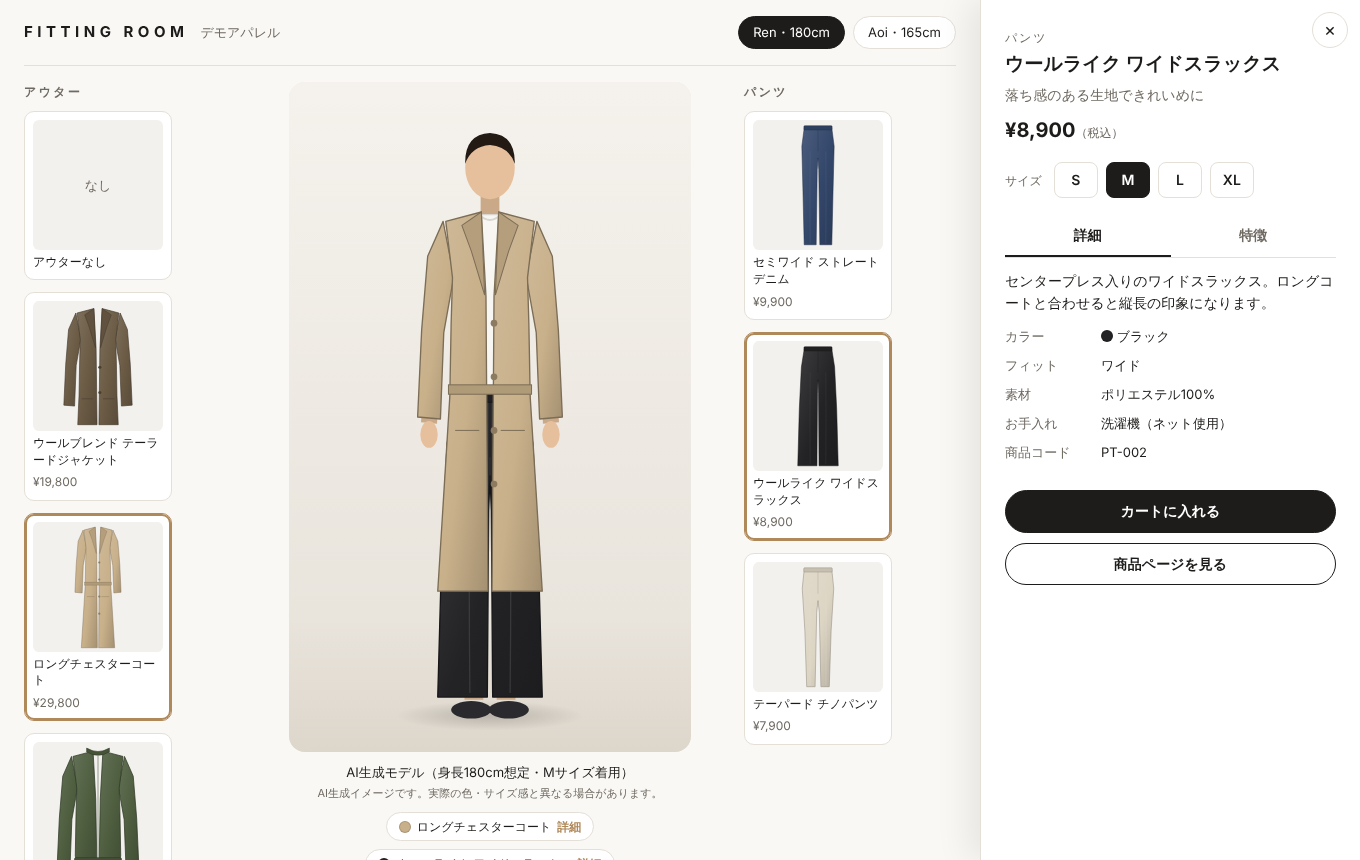
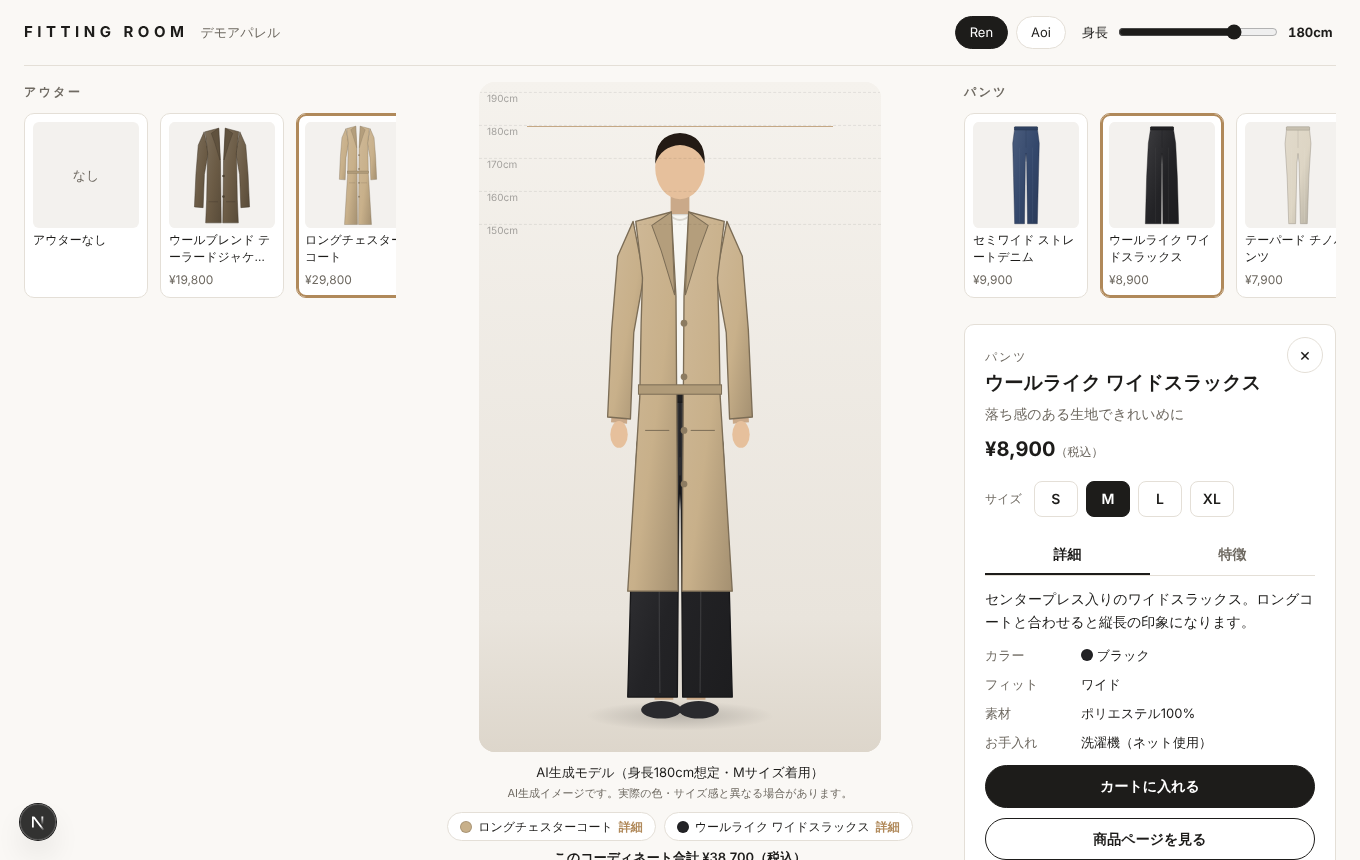
試着室: 商品を横スクロールに、身長をスライダーで調整可能に
- アウター・パンツを横一列の横スクロールに変更
- 詳細パネルを商品一覧の下に表示し、中央の着用画像を隠さない
- 身長スライダー（150〜190cm）と目盛りを追加。着用画像の縮尺を足元基準で変える

Claude-Session: https://claude.ai/code/session_012KCw46FKtnUSpWef3yNaCA

diff --git a/src/components/FittingRoom.tsx b/src/components/FittingRoom.tsx
@@ -6,7 +6,17 @@
 import { useCallback, useEffect, useMemo, useRef, useState } from "react";
 import type { Catalog, PublicLook, PublicProduct } from "@/lib/public-api";
 
-const NO_OUTER = "__none__";
+// 身長の調整範囲（cm）
+export const HEIGHT_MIN = 150;
+export const HEIGHT_MAX = 190;
+// 着用画像の縮尺: 画像の下から5%が足元、身長1cmあたり画像の高さの0.4911%（仮エンジンの描画と一致）
+const FEET_FROM_TOP = 0.95;
+const PER_CM = 0.004911;
+
+/** 身長に合わせて着用画像を何倍に表示するか（足元を基準に拡大・縮小） */
+export function heightScale(targetCm: number, modelCm: number): number {
+  return targetCm / modelCm;
+}
 
 function comboKey(modelId: string, outerId: string | null, bottomId: string | null) {
   return `${modelId}|${outerId ?? "-"}|${bottomId ?? "-"}`;
@@ -43,6 +53,9 @@ export default function FittingRoom({ catalog, initial }: Props) {
   );
   const [bottomId, setBottomId] = useState<string | null>(
     bottoms.find((p) => p.external_code === initial.bottomsCode)?.id ?? bottoms[0]?.id ?? null,
+  );
+  const [heightCm, setHeightCm] = useState(
+    () => models.find((m) => m.id === initial.modelId)?.height_cm ?? models[0]?.height_cm ?? 170,
   );
   const [detail, setDetail] = useState<PublicProduct | null>(null);
   const [pending, setPending] = useState<string | null>(null); // 生成待ちの combo_key
@@ -178,32 +191,64 @@ export default function FittingRoom({ catalog, initial }: Props) {
   }
 
   const busy = pending === key && !look;
+  const scale = heightScale(heightCm, model.height_cm);
+  // 選んだ身長の頭の高さ（ステージ上端からの割合）。目盛り線に使う
+  const headTop = FEET_FROM_TOP - heightCm * PER_CM;
+  const detailPanel = detail && (
+    <DetailPanel
+      key={detail.id}
+      p={detail}
+      defaultSize={model.size_worn}
+      onClose={() => setDetail(null)}
+      onCart={addToCart}
+      onLink={() => track("product_link", { product_id: detail.id })}
+    />
+  );
 
   return (
-    <div className={`room ${detail ? "with-detail" : ""}`}>
+    <div className="room">
       <header className="room-header">
         <div className="room-brand">
           <span className="room-title">FITTING ROOM</span>
           <span className="room-tenant">{tenant.name}</span>
         </div>
-        {models.length > 1 && (
-          <div className="model-switch" role="radiogroup" aria-label="モデルを選ぶ">
-            {models.map((m) => (
-              <button
-                key={m.id}
-                role="radio"
-                aria-checked={m.id === modelId}
-                className={`chip ${m.id === modelId ? "on" : ""}`}
-                onClick={() => setModelId(m.id)}
-              >
-                {m.name}・{m.height_cm}cm
-              </button>
-            ))}
-          </div>
-        )}
+        <div className="room-controls">
+          {models.length > 1 && (
+            <div className="model-switch" role="radiogroup" aria-label="モデルを選ぶ">
+              {models.map((m) => (
+                <button
+                  key={m.id}
+                  role="radio"
+                  aria-checked={m.id === modelId}
+                  className={`chip ${m.id === modelId ? "on" : ""}`}
+                  onClick={() => {
+                    setModelId(m.id);
+                    setHeightCm(Math.min(HEIGHT_MAX, Math.max(HEIGHT_MIN, m.height_cm)));
+                  }}
+                >
+                  {m.name}
+                </button>
+              ))}
+            </div>
+          )}
+          <label className="height-control">
+            <span>身長</span>
+            <input
+              type="range"
+              min={HEIGHT_MIN}
+              max={HEIGHT_MAX}
+              step={1}
+              value={heightCm}
+              onChange={(e) => setHeightCm(Number(e.target.value))}
+              aria-valuetext={`${heightCm}cm`}
+            />
+            <output>{heightCm}cm</output>
+          </label>
+        </div>
       </header>
 
-      <section className="rail rail-outer" aria-label="アウター">
+      <div className="side side-outer">
+      <section className="rail" aria-label="アウター">
         <h2 className="rail-title">アウター</h2>
         <div className="rail-items">
           <button className={`item none ${outerId === null ? "on" : ""}`} onClick={() => selectOuter(null)} aria-pressed={outerId === null}>
@@ -215,6 +260,8 @@ export default function FittingRoom({ catalog, initial }: Props) {
           ))}
         </div>
       </section>
+      {detail?.category === "outer" && detailPanel}
+      </div>
 
       <section className="stage" aria-live="polite">
         <div className="stage-frame">
@@ -224,12 +271,23 @@ export default function FittingRoom({ catalog, initial }: Props) {
               src={shownUrl}
               alt={`${model.name}の着用イメージ`}
               className={`stage-img ${busy ? "dim" : ""}`}
+              style={{ transform: `scale(${scale})` }}
               key={shownUrl}
             />
           ) : (
             // eslint-disable-next-line @next/next/no-img-element
-            model.image_url && <img src={model.image_url} alt={model.name} className="stage-img dim" />
+            model.image_url && (
+              <img src={model.image_url} alt={model.name} className="stage-img dim" style={{ transform: `scale(${scale})` }} />
+            )
           )}
+          <div className="ruler" aria-hidden>
+            {[150, 160, 170, 180, 190].map((cm) => (
+              <span key={cm} className="ruler-tick" style={{ top: `${(FEET_FROM_TOP - cm * PER_CM) * 100}%` }}>
+                {cm}
+              </span>
+            ))}
+            <span className="ruler-head" style={{ top: `${headTop * 100}%` }} />
+          </div>
           {busy && (
             <div className="stage-overlay">
               <div className="spinner" aria-hidden />
@@ -243,7 +301,7 @@ export default function FittingRoom({ catalog, initial }: Props) {
           )}
         </div>
         <p className="model-note">
-          AI生成モデル（身長{model.height_cm}cm想定・{model.size_worn}サイズ着用）
+          AI生成モデル（身長{heightCm}cm想定・{model.size_worn}サイズ着用）
         </p>
         <p className="disclaimer">AI生成イメージです。実際の色・サイズ感と異なる場合があります。</p>
         <div className="wearing" aria-label="着用中の商品">
@@ -258,7 +316,8 @@ export default function FittingRoom({ catalog, initial }: Props) {
         {outfitTotal > 0 && <p className="outfit-total">このコーディネート合計 {yen(outfitTotal)}（税込）</p>}
       </section>
 
-      <section className="rail rail-bottoms" aria-label="パンツ">
+      <div className="side side-bottoms">
+      <section className="rail" aria-label="パンツ">
         <h2 className="rail-title">パンツ</h2>
         <div className="rail-items">
           {bottoms.map((p) => (
@@ -266,17 +325,8 @@ export default function FittingRoom({ catalog, initial }: Props) {
           ))}
         </div>
       </section>
-
-      {detail && (
-        <DetailPanel
-          key={detail.id}
-          p={detail}
-          defaultSize={model.size_worn}
-          onClose={() => setDetail(null)}
-          onCart={addToCart}
-          onLink={() => track("product_link", { product_id: detail.id })}
-        />
-      )}
+      {detail?.category === "bottoms" && detailPanel}
+      </div>
 
       {toast && (
         <div className="toast" role="status">

diff --git a/src/app/globals.css b/src/app/globals.css
@@ -40,9 +40,10 @@ button { font: inherit; color: inherit; cursor: pointer; }
 /* ---------- 試着室 ---------- */
 .room {
   display: grid;
-  grid-template-columns: minmax(200px, 1fr) minmax(320px, 520px) minmax(200px, 1fr);
+  grid-template-columns: minmax(0, 1fr) minmax(320px, 520px) minmax(0, 1fr);
   grid-template-rows: auto 1fr;
   grid-template-areas: "head head head" "outer stage bottoms";
+  align-items: start;
   min-height: 100vh; gap: 0 24px; padding: 0 24px 24px;
 }
 .room-header {
@@ -56,11 +57,18 @@ button { font: inherit; color: inherit; cursor: pointer; }
 .chip { border: 1px solid var(--line); background: var(--panel); border-radius: 999px; padding: 5px 14px; font-size: 13px; }
 .chip.on { border-color: var(--ink); background: var(--ink); color: #fff; }
 
+/* 左右の列: 上に商品の横一列、下に選んだ商品の詳細。中央の着用画像の大きさは変わらない */
+.side { min-width: 0; display: flex; flex-direction: column; gap: 16px; }
+.side-outer { grid-area: outer; }
+.side-bottoms { grid-area: bottoms; }
 .rail { min-width: 0; }
-.rail-outer { grid-area: outer; }
-.rail-bottoms { grid-area: bottoms; }
 .rail-title { font-size: 12px; letter-spacing: 0.2em; color: var(--muted); font-weight: 600; margin: 0 0 10px; }
-.rail-items { display: grid; grid-template-columns: repeat(auto-fill, minmax(112px, 148px)); gap: 12px; }
+/* 商品は横一列に並べて横スクロール（端の商品が少し見切れて、続きがあると分かる） */
+.rail-items {
+  display: flex; gap: 12px; overflow-x: auto; overscroll-behavior-x: contain; scroll-snap-type: x proximity;
+  padding: 2px 2px 10px; scrollbar-width: thin;
+}
+.rail-items > .item { flex: 0 0 124px; scroll-snap-align: start; }
 .item {
   display: flex; flex-direction: column; align-items: stretch; text-align: left; gap: 4px;
   border: 1px solid var(--line); background: var(--panel); border-radius: var(--radius); padding: 8px;
@@ -76,9 +84,24 @@ button { font: inherit; color: inherit; cursor: pointer; }
 .stage { grid-area: stage; display: flex; flex-direction: column; align-items: center; }
 .stage-frame {
   position: relative; height: min(calc(100vh - 190px), 860px); min-height: 420px; aspect-ratio: 3 / 5; max-width: 100%;
-  background: #efebe5; border-radius: 16px; overflow: hidden; display: grid; place-items: center;
+  background: linear-gradient(180deg, #f5f2ed 0%, #e9e4dc 80%, #ddd6cb 100%); border-radius: 16px; overflow: hidden; display: grid; place-items: center;
 }
-.stage-img { position: absolute; inset: 0; width: 100%; height: 100%; object-fit: contain; animation: fadein 0.18s ease-out; }
+.stage-img {
+  position: absolute; inset: 0; width: 100%; height: 100%; object-fit: contain;
+  transform-origin: 50% 95%; transition: transform 0.15s ease-out; animation: fadein 0.18s ease-out;
+}
+/* 身長の目盛り */
+.ruler { position: absolute; inset: 0; pointer-events: none; }
+.ruler-tick {
+  position: absolute; left: 0; right: 0; height: 0; border-top: 1px dashed rgba(0, 0, 0, 0.08);
+  font-size: 10px; color: rgba(0, 0, 0, 0.35); padding-left: 8px; line-height: 1; transform: translateY(-110%);
+}
+.ruler-tick::after { content: "cm"; }
+.ruler-head { position: absolute; left: 12%; right: 12%; border-top: 1.5px solid var(--sel); opacity: 0.7; transition: top 0.15s ease-out; }
+.room-controls { display: flex; align-items: center; gap: 16px; flex-wrap: wrap; }
+.height-control { display: flex; align-items: center; gap: 8px; font-size: 13px; }
+.height-control input { width: 160px; accent-color: var(--ink); }
+.height-control output { min-width: 48px; font-weight: 700; font-variant-numeric: tabular-nums; }
 .stage-img.dim { opacity: 0.45; }
 @keyframes fadein { from { opacity: 0.6; } to { opacity: 1; } }
 .stage-overlay { position: absolute; inset: 0; display: grid; place-content: center; justify-items: center; gap: 8px; text-align: center; padding: 24px; font-weight: 600; }
@@ -93,11 +116,10 @@ button { font: inherit; color: inherit; cursor: pointer; }
 .outfit-total { margin: 6px 0 0; font-size: 13px; font-weight: 600; }
 
 .detail {
-  position: fixed; top: 0; right: 0; bottom: 0; width: min(380px, 100vw); background: var(--panel);
-  border-left: 1px solid var(--line); box-shadow: -12px 0 32px rgba(0, 0, 0, 0.08);
-  padding: 28px 24px 24px; overflow-y: auto; z-index: 20; animation: slidein 0.2s ease-out;
+  position: relative; background: var(--panel); border: 1px solid var(--line); border-radius: var(--radius);
+  padding: 22px 20px 20px; animation: slidein 0.2s ease-out;
 }
-@keyframes slidein { from { transform: translateX(24px); opacity: 0; } to { transform: none; opacity: 1; } }
+@keyframes slidein { from { transform: translateY(8px); opacity: 0; } to { transform: none; opacity: 1; } }
 .detail-close { position: absolute; top: 12px; right: 12px; width: 36px; height: 36px; border-radius: 50%; border: 1px solid var(--line); background: var(--panel); font-size: 18px; line-height: 1; }
 .detail-cat { margin: 0; font-size: 12px; letter-spacing: 0.15em; color: var(--muted); }
 .detail-name { margin: 4px 40px 6px 0; font-size: 19px; line-height: 1.4; }
@@ -119,11 +141,6 @@ button { font: inherit; color: inherit; cursor: pointer; }
 .features { margin: 0 0 20px; padding-left: 18px; }
 .detail-actions { display: grid; gap: 10px; position: sticky; bottom: 0; background: var(--panel); padding-top: 8px; }
 
-/* 詳細パネルを開いても商品一覧が隠れないよう、右側を空ける */
-@media (min-width: 861px) {
-  .room.with-detail { padding-right: 404px; grid-template-columns: minmax(150px, 1fr) minmax(280px, 460px) minmax(150px, 1fr); }
-}
-
 .toast {
   position: fixed; left: 50%; bottom: 24px; transform: translateX(-50%); background: var(--ink); color: #fff;
   padding: 10px 18px; border-radius: 999px; font-size: 13px; z-index: 30; max-width: calc(100vw - 32px);
@@ -132,18 +149,20 @@ button { font: inherit; color: inherit; cursor: pointer; }
 
 @media (max-width: 860px) {
   .room {
-    grid-template-columns: 1fr; grid-template-areas: "head" "stage" "outer" "bottoms";
+    grid-template-columns: minmax(0, 1fr); grid-template-areas: "head" "stage" "outer" "bottoms";
     padding: 0 16px 24px; gap: 16px;
   }
   .room-header { margin-bottom: 0; }
   .stage-frame { height: 52vh; min-height: 320px; aspect-ratio: 3 / 5; width: auto; }
   .room-header { padding: 10px 0; }
   .model-note { margin-top: 6px; }
-  .rail-items { display: flex; overflow-x: auto; gap: 10px; padding-bottom: 6px; scroll-snap-type: x mandatory; }
-  .item { flex: 0 0 96px; scroll-snap-align: start; padding: 6px; }
+  .rail-items { gap: 10px; padding-bottom: 6px; }
+  .rail-items > .item { flex: 0 0 96px; padding: 6px; }
+  .height-control input { width: 120px; }
   .rail-title { margin-bottom: 6px; }
   .detail {
-    top: auto; left: 0; width: 100%; max-height: 78vh; border-left: none; border-top: 1px solid var(--line);
+    position: fixed; top: auto; left: 0; right: 0; bottom: 0; z-index: 20; overflow-y: auto; border-radius: 0;
+    width: 100%; max-height: 78vh; border-left: none; border-top: 1px solid var(--line);
     border-radius: 16px 16px 0 0; box-shadow: 0 -12px 32px rgba(0, 0, 0, 0.12); animation: slideup 0.2s ease-out;
   }
   @keyframes slideup { from { transform: translateY(24px); opacity: 0; } to { transform: none; opacity: 1; } }

diff --git a/README.md b/README.md
@@ -18,7 +18,8 @@
 **試着室（お客さま向け）** `/t/demo`
 - 中央にAIモデル、左にアウター、右にパンツ。選ぶと着用画像がすぐ切り替わる
 - 商品の詳細パネル（サイズ、詳細／特徴タブ、カラー・フィット・素材・お手入れ・価格、商品ページへのリンク、カートに入れる）
-- モデルの切り替え（例: 180cm・M着用 / 165cm・S着用）と「AI生成モデル（身長○cm想定・○サイズ着用）」の注記
+- モデルの切り替えと、身長スライダー（150〜190cm）。身長に合わせて着用画像の縮尺が変わり、目盛りで確認できる。「AI生成モデル（身長○cm想定・○サイズ着用）」の注記つき
+- 商品は横一列に並び、横スクロールで選ぶ。選んだ商品の詳細は商品一覧の下に出るので、中央の着用画像は隠れない
 - まだ作っていない組み合わせは、その場で生成して表示（オンデマンド生成）
 - スマホ表示に対応
 - ECサイトにはリンクまたは iframe 埋め込みで設置。「カートに入れる」は埋め込み先ページに通知（postMessage）
